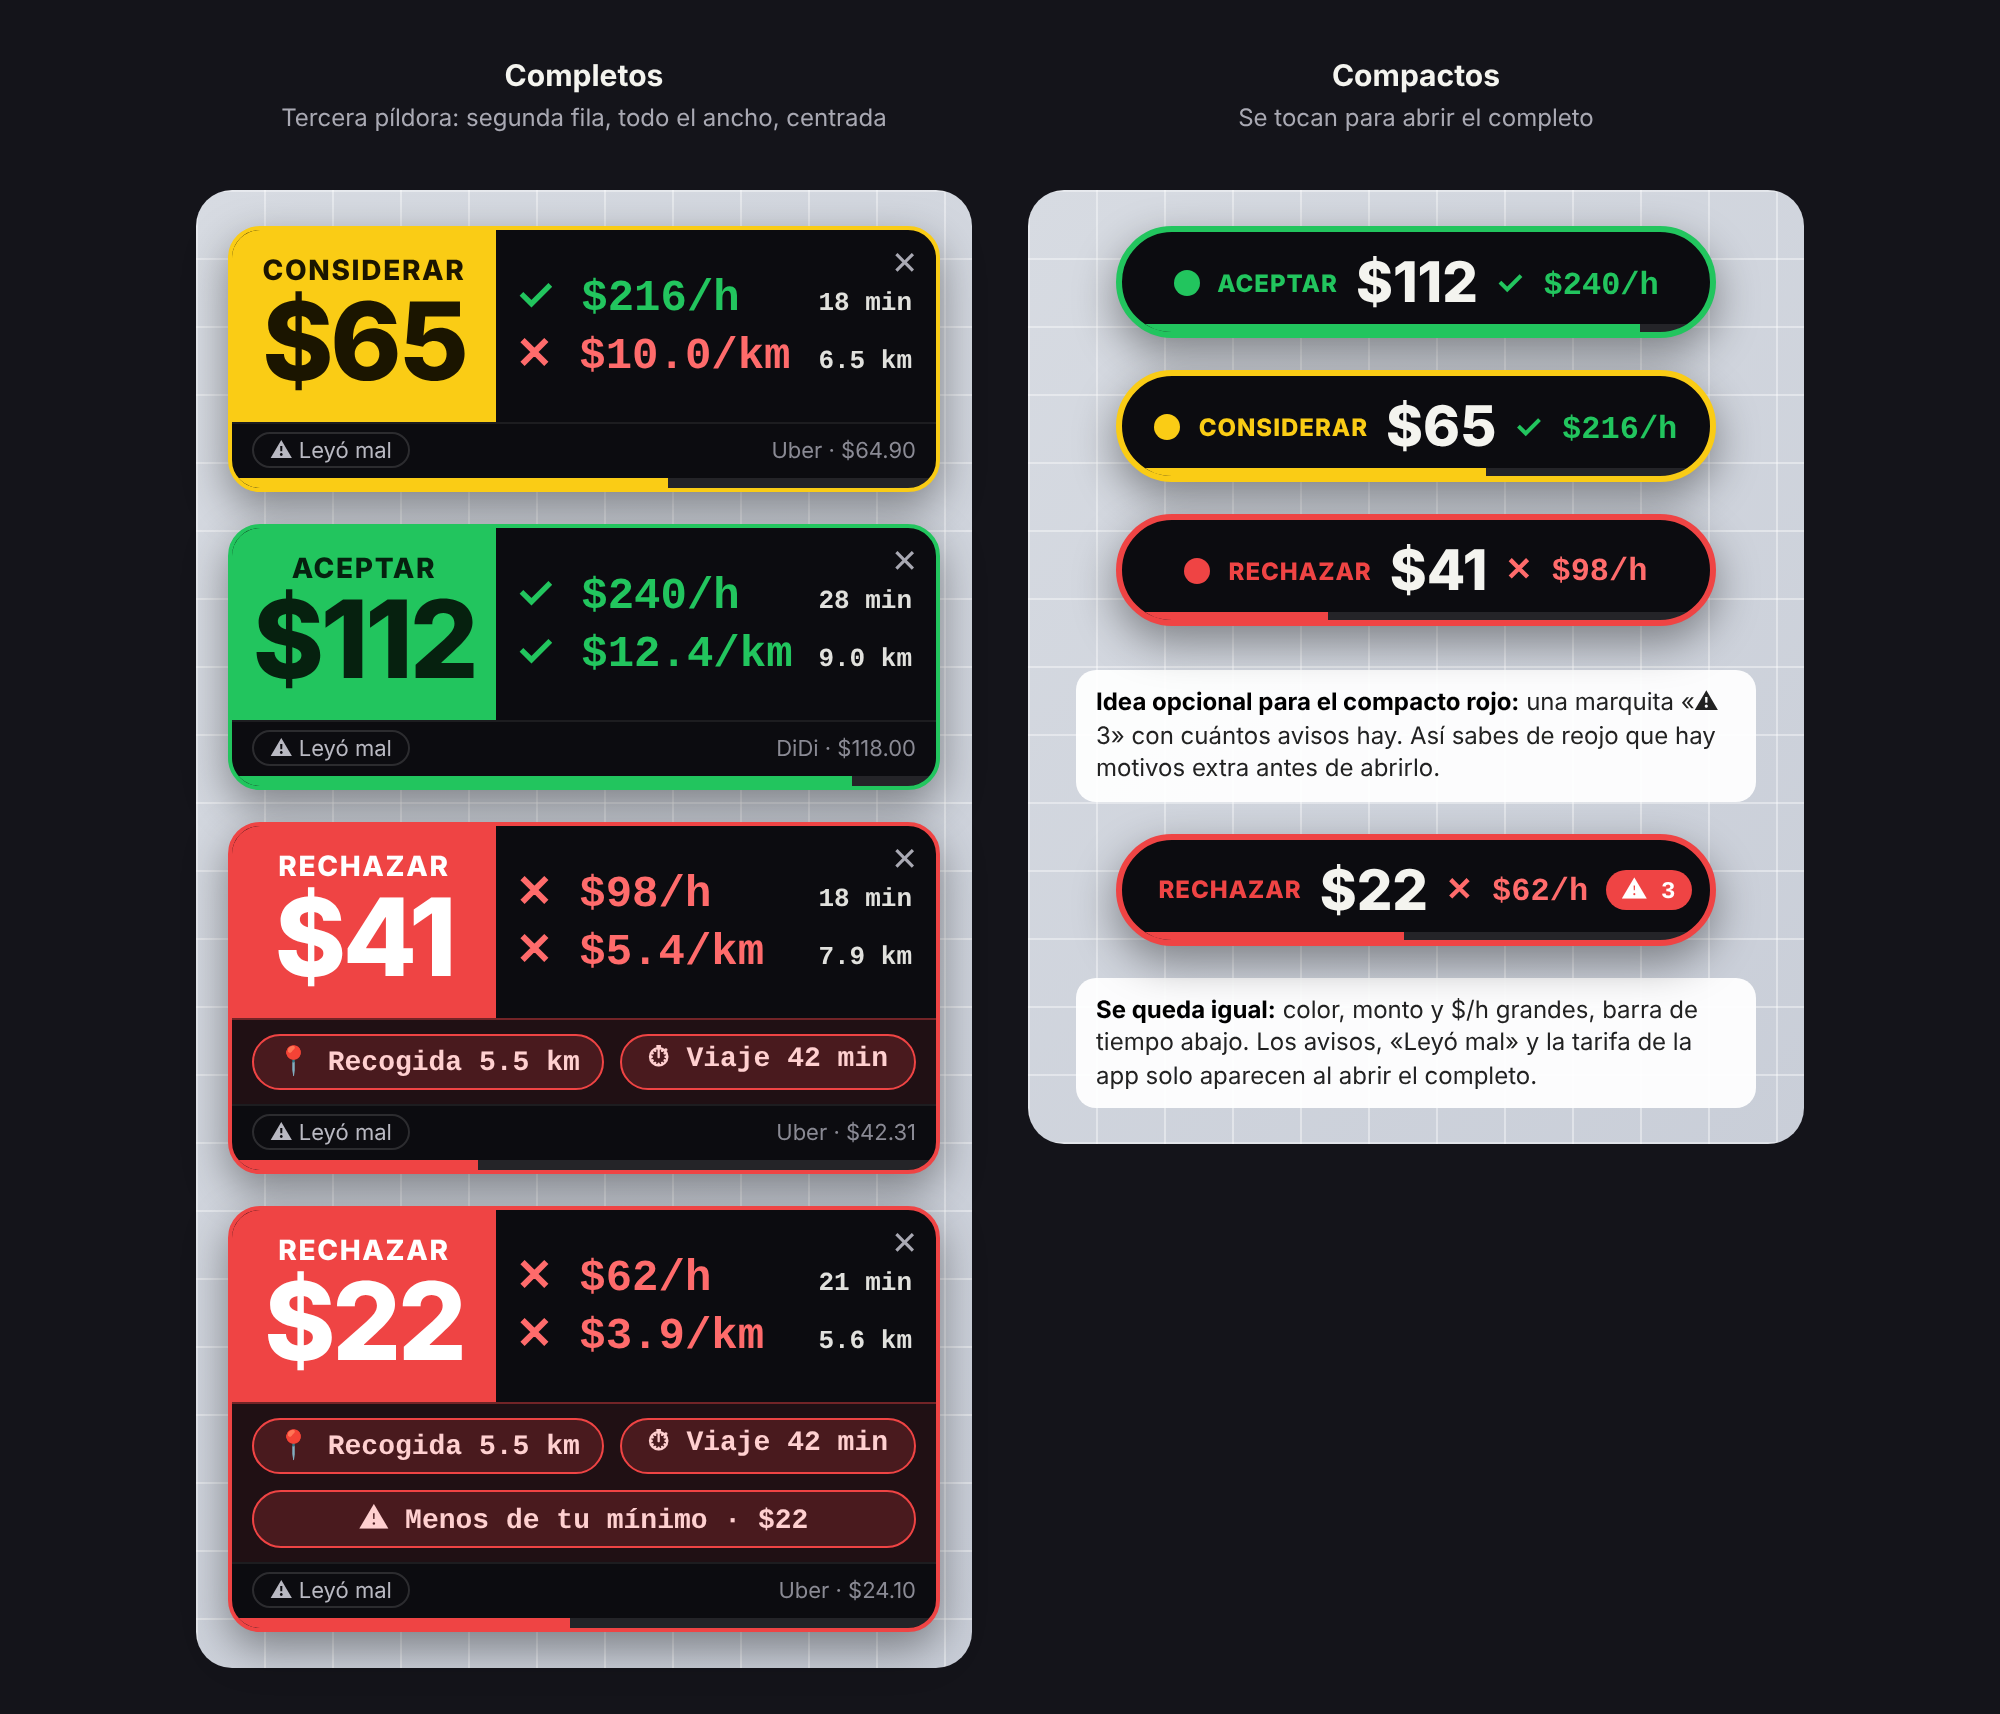
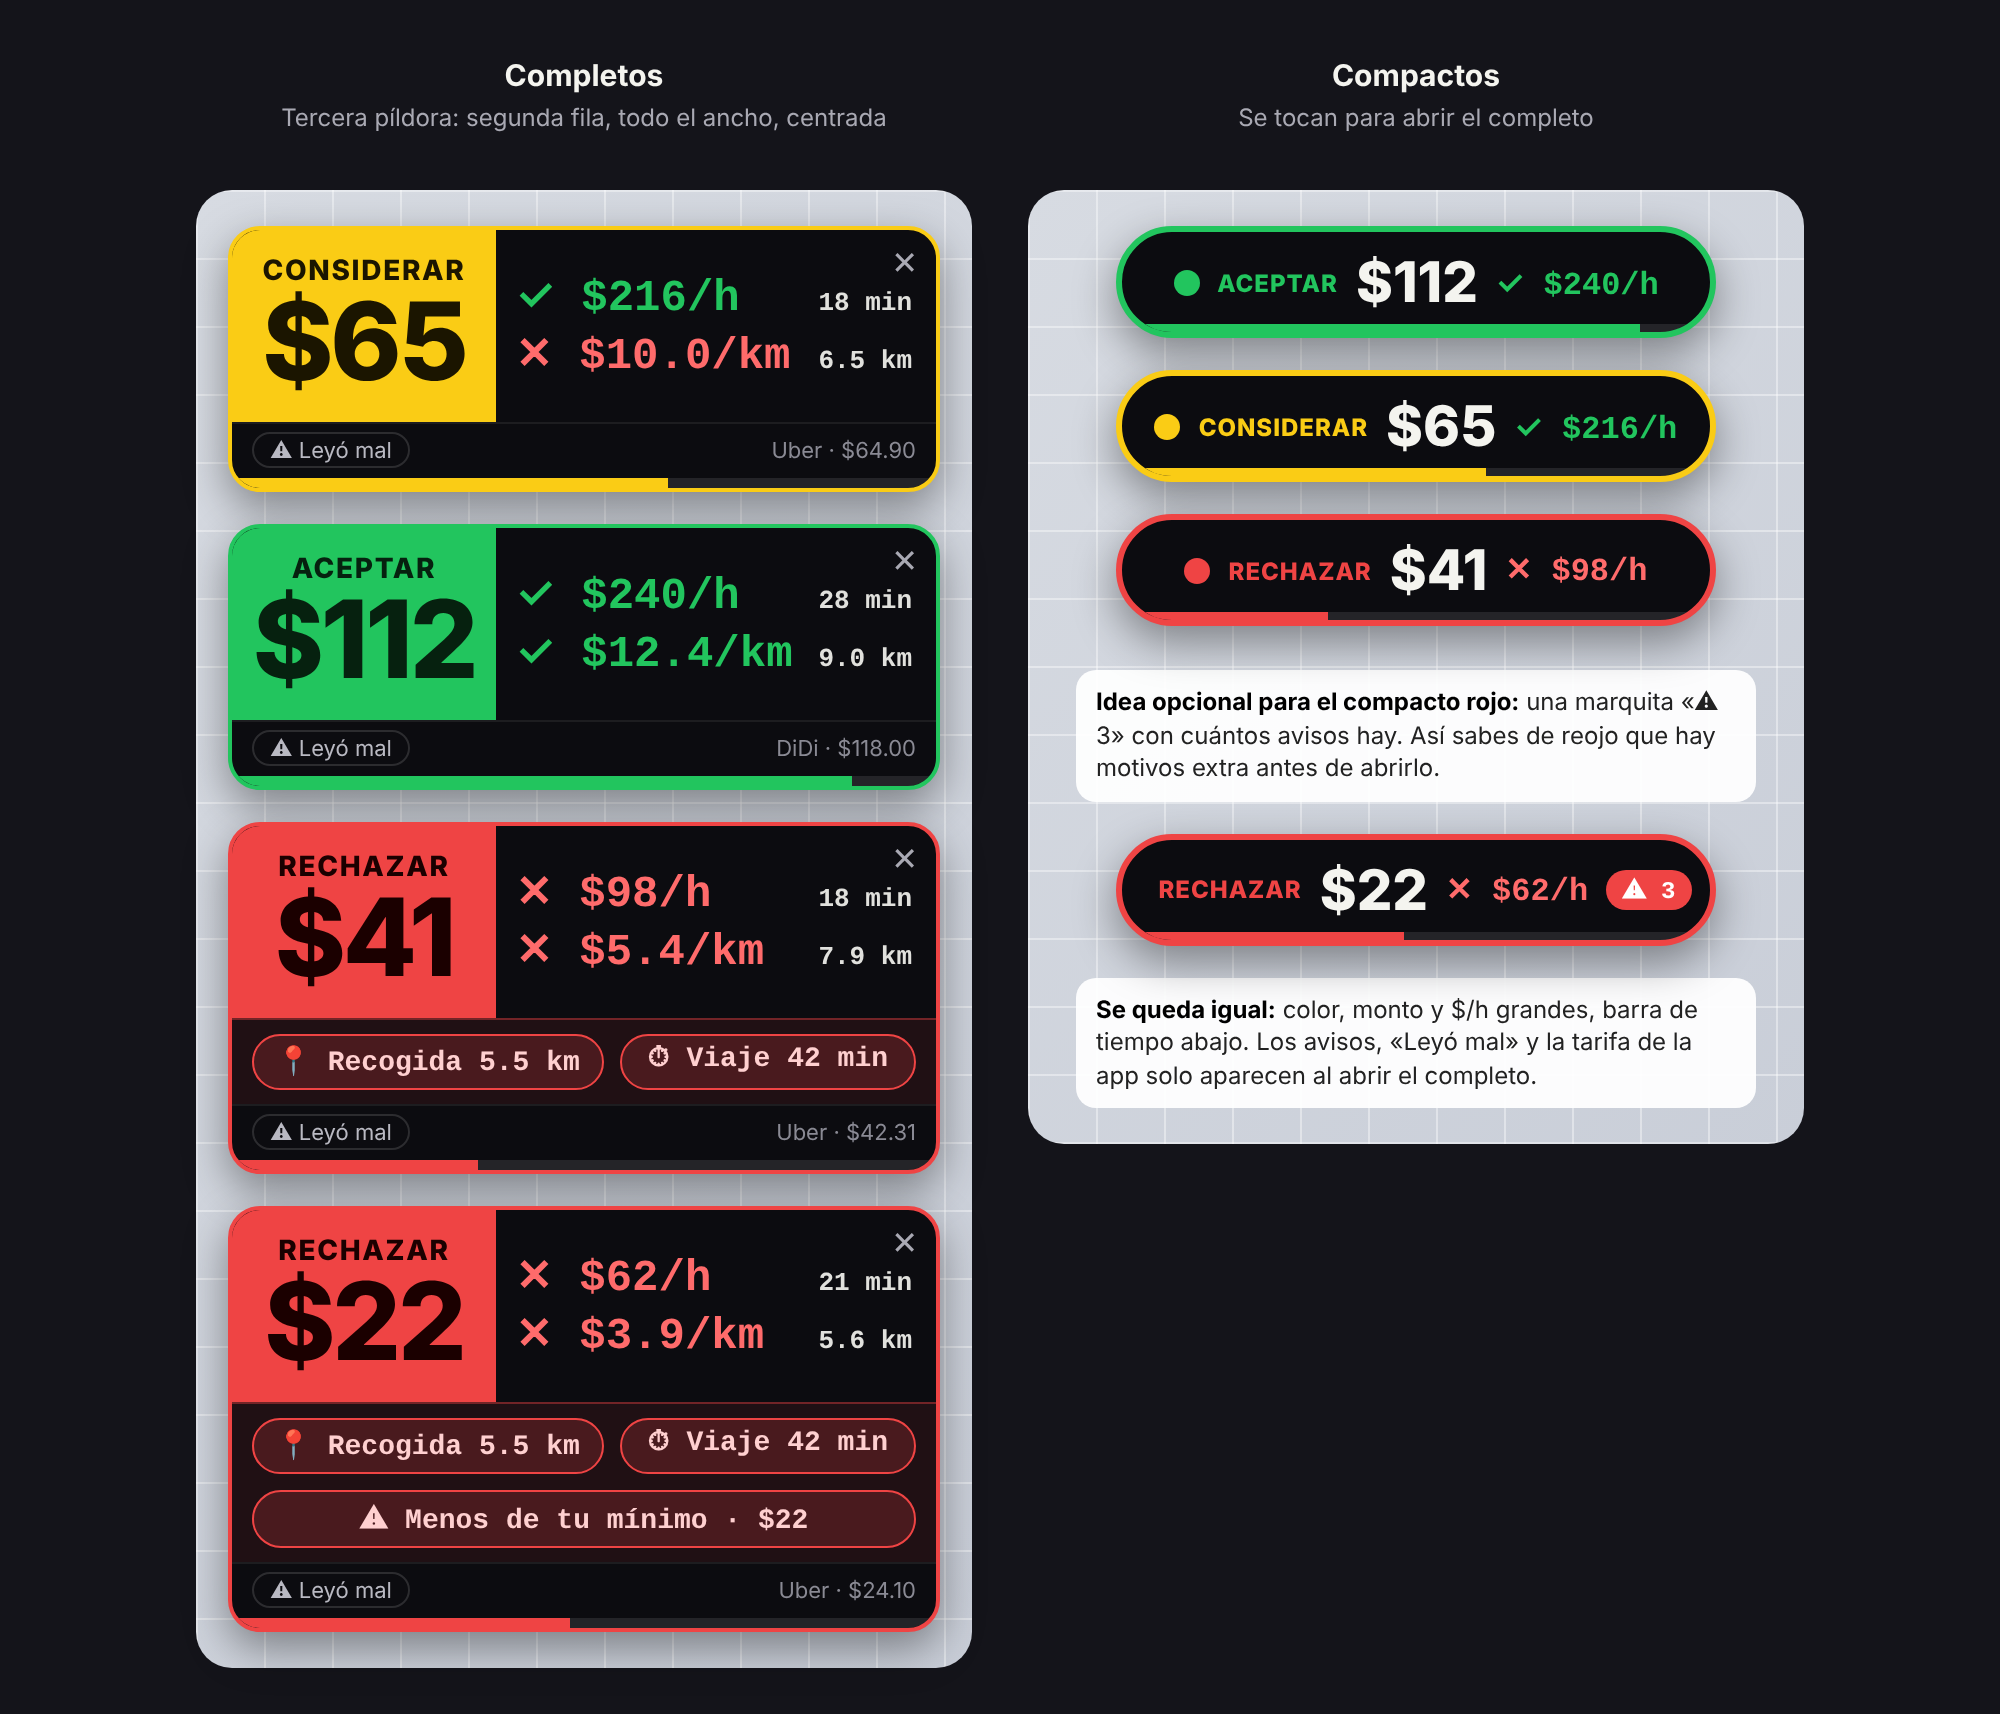
docs: pop-up D con texto negro en los tres bloques de color
Claude-Session: https://claude.ai/code/session_01P2CDbbiqgFz6ZtGYzzfkDi

Changed region(s): [[0.124, 0.7112, 0.248, 0.804], [0.124, 0.4947, 0.248, 0.5875]]

diff --git a/docs/propuestas/popup-v8.html b/docs/propuestas/popup-v8.html
@@ -7,7 +7,7 @@ body{background:#14141a;color:var(--hue);font:14px "DM Sans",system-ui,sans-seri
 .mapa{border-radius:18px;padding:18px 16px;display:flex;flex-direction:column;gap:16px;align-items:center;min-height:640px;
  background:linear-gradient(#ffffff66 1px,transparent 1px) 0 0/34px 34px,linear-gradient(90deg,#ffffff66 1px,transparent 1px) 0 0/34px 34px,linear-gradient(135deg,#d7dbe2,#c9ced8)}
 .pop{width:356px;background:var(--asf);border-radius:16px;position:relative;overflow:hidden;box-shadow:0 8px 22px #0006;border:2px solid var(--c)}
-.pop.v{--c:var(--ver);--t:#06210f}.pop.a{--c:var(--ama);--t:#1b1500}.pop.r{--c:var(--roj);--t:#fff}
+.pop.v{--c:var(--ver);--t:#06210f}.pop.a{--c:var(--ama);--t:#1b1500}.pop.r{--c:var(--roj);--t:#1b0000}
 .cuerpo{display:grid;grid-template-columns:132px 1fr}
 .bloque{background:var(--c);color:var(--t);display:flex;flex-direction:column;justify-content:center;align-items:center;padding:12px 6px;position:relative}
 .bloque small{font:800 14px system-ui;letter-spacing:.06em}.bloque b{font:800 54px/1.02 "Bricolage Grotesque",system-ui;letter-spacing:-.03em}.bloque em{font:800 14px system-ui;font-style:normal}
